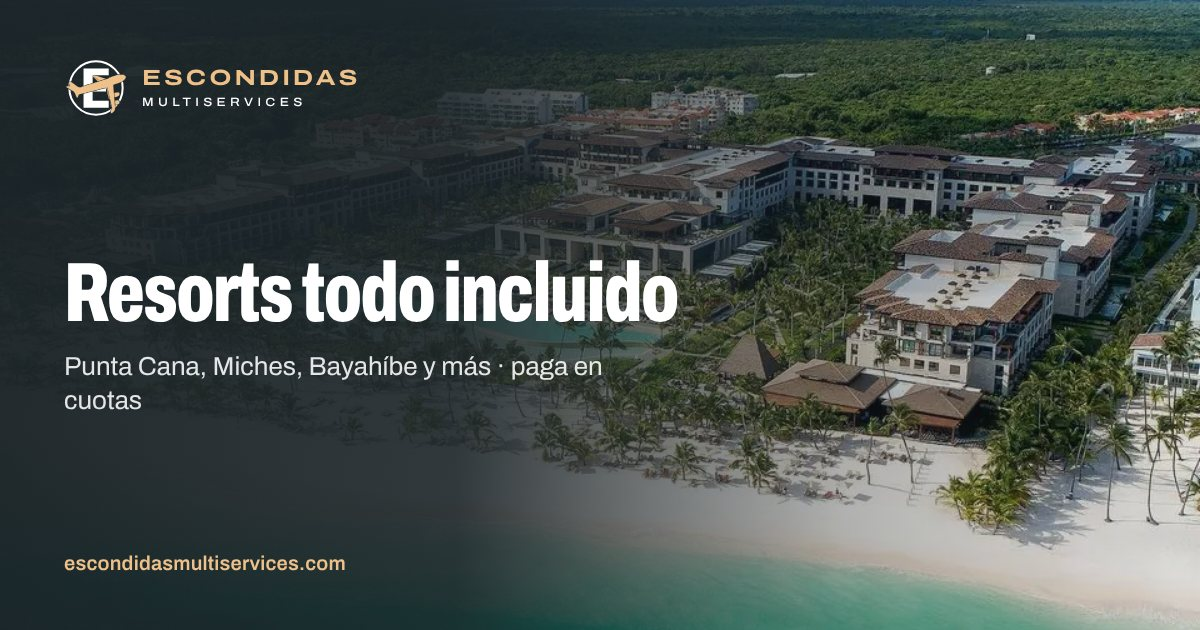
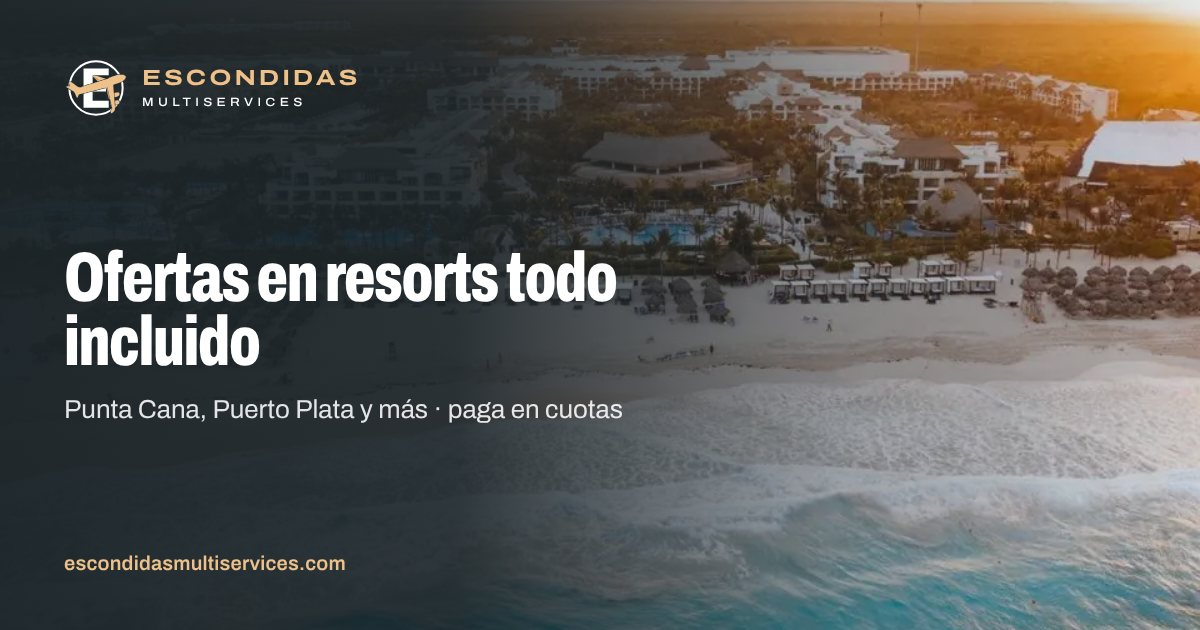
Quita hoteles sin precio y completa las fotos que faltaban
- Fuera Lopesan Costa Bávaro, Zemi Miches y Sunscape Dominicus (sin precio)
- Hard Rock pasa a hotel de oferta, con galería: foto aérea + piscina (Commons, CC BY 2.0)
- Las tarjetas de hoteles sin precio propio se ocultan solas al vencer la oferta
- Fotos nuevas: Río de Janeiro (Commons, CC0), Cofresí (recorte del flyer),
  Cueva Taína y casa típica (ilustrativas, Higgsfield)
- Inicio y metadatos de hoteles hablan de Punta Cana y Puerto Plata; OG de hoteles nueva

Claude-Session: https://claude.ai/code/session_014DoFgsnU6KxzYCSXWDs1VN

diff --git a/public/css/estilos.css b/public/css/estilos.css
@@ -796,11 +796,18 @@ html:not(.js) .filtros { display: none; }
 .galeria__principal img { width: 100%; height: 100%; object-fit: cover; }
 .galeria__principal .credito { position: absolute; right: .85rem; bottom: .6rem; margin: 0; color: rgba(255,255,255,.85); text-shadow: 0 1px 3px rgba(0,0,0,.6); }
 .galeria__pend { border-radius: 1.1rem; border: 1.5px dashed var(--linea-fuerte); background: var(--bruma); display: grid; place-items: center; color: var(--gris); aspect-ratio: 4 / 3; font-size: .9rem; text-align: center; padding: .5rem; }
+.galeria__foto { border-radius: 1.1rem; overflow: hidden; aspect-ratio: 4 / 3; background: var(--bruma); position: relative; margin: 0; }
+.galeria__foto img { width: 100%; height: 100%; object-fit: cover; }
+.galeria__foto .credito { position: absolute; right: .75rem; bottom: .5rem; margin: 0; color: rgba(255,255,255,.85); text-shadow: 0 1px 3px rgba(0,0,0,.6); }
+.galeria--dos .galeria__foto { grid-column: span 2; aspect-ratio: 16 / 10; }
 @media (min-width: 900px) {
   .galeria { grid-template-columns: repeat(4, minmax(0,1fr)); grid-template-rows: repeat(2, minmax(0, 1fr)); }
   .galeria__principal { grid-column: span 2; grid-row: span 2; aspect-ratio: auto; min-height: 26rem; }
   .galeria--sola .galeria__principal { grid-column: 1 / -1; aspect-ratio: 21 / 9; }
-  .galeria__pend { aspect-ratio: auto; }
+  .galeria__pend, .galeria__foto { aspect-ratio: auto; }
+  .galeria--dos { grid-template-columns: 3fr 2fr; grid-template-rows: auto; }
+  .galeria--dos .galeria__principal { grid-column: auto; grid-row: auto; }
+  .galeria--dos .galeria__foto { grid-column: auto; aspect-ratio: auto; border-radius: 1.5rem; }
 }
 .ficha { display: grid; gap: 3rem; align-items: start; }
 @media (min-width: 1000px) { .ficha { grid-template-columns: minmax(0, 1.35fr) minmax(0, 1fr); gap: 4rem; } .ficha__lado { position: sticky; top: 7rem; } }

diff --git a/herramientas/medios.py b/herramientas/medios.py
@@ -16,6 +16,7 @@ SALIDA = os.path.join(RAIZ, 'public', 'img', 'f')
 TMP = '/tmp/esc_medios'
 UP = '/mnt/user-data/uploads/'
 W2 = '/home/claude/esc/web2/img/'
+ENT = '/home/claude/esc/entrantes/'
 ANCHOS = [480, 800, 1200, 1600, 2000]
 
 V_BUGGY = UP + 'IMG_2723.MOV'      # 1080x1920, caravana y casco rojo
@@ -59,6 +60,12 @@ FUENTES = {
     'flyer-ballenas': (UP + 'b3581001-image.jpg', None, None, False),
     # Ofertas de resorts (flyers del mayorista, nov 2026)
     'flyer-tropical-cofresi': (UP + 'eb685f6b-image.png', None, None, False),
+    # Nov 2026: fotos que faltaban (Wikimedia Commons, IA de Higgsfield y recorte del flyer)
+    'rio-botafogo': (ENT + 'rio-botafogo.jpg', None, None, False),          # Wilfredor, CC0
+    'hardrock-piscina': (ENT + 'hardrock-piscina.jpg', None, None, False),  # Magnus Bråth, CC BY 2.0
+    'cueva-taina': (ENT + 'cueva-taina.jpg', None, None, False),            # ilustrativa, Higgsfield
+    'casa-tipica': (ENT + 'casa-tipica.jpg', None, None, False),            # ilustrativa, Higgsfield
+    'cofresi-cabanas': (UP + 'eb685f6b-image.png', None, (0.17, 0.132, 0.87, 0.52), False),
     'flyer-presidential-suites': (UP + '762c4af1-image.png', None, None, False),
     'flyer-hard-rock': (UP + '96825562-image.png', None, None, False),
     'flyer-ocean-blue-sand': (UP + '9e118303-image.png', None, None, False),

diff --git a/PENDIENTES.md b/PENDIENTES.md
@@ -24,20 +24,17 @@ En la vista previa, cada dato pendiente aparece como un **recuadro punteado**. C
 
 ## Fotos
 - [ ] Autor y licencia de las fotos de Wikimedia: Basílica de Higüey (fachada y aérea), cuadro de la Altagracia y acantilado de Playa Macao
-- [ ] Fotos reales de la Cueva Taína y de la casa típica (si las tienen)
-- [ ] Confirmar permiso de las fotos de Hard Rock y Zemi (o cambiarlas por fotos del mayorista)
-- [ ] 4 fotos por hotel: piscina, habitación, playa y restaurante
+- [ ] Fotos reales de la Cueva Taína y de la casa típica (hoy son imágenes ilustrativas hechas con IA en Higgsfield)
+- [ ] Confirmar permiso de la foto aérea de Hard Rock (o cambiarla por una del mayorista)
+- [x] Todas las secciones tienen foto (nov 2026): Río de Janeiro (Wilfredor, CC0), piscina de Hard Rock (Magnus Bråth, CC BY 2.0), Cofresí (recorte del flyer), Cueva Taína y casa típica (IA)
 
 ## Ofertas de resorts (flyers, nov 2026, ya en la web)
 - [x] Ocean Blue & Sand y Ocean El Faro (Black Friday, reservar hasta el 30 nov), Hard Rock (27 al 29 nov), The Tropical Beach & Cofresí Palm y Presidential Suites (hasta el 23 dic)
 - Cada oferta se oculta sola en la web al día siguiente de su fecha (`vence` en contenido/datos.mjs). Para una oferta nueva: agregar el flyer en herramientas/medios.py y el hotel con su `oferta` en datos.mjs
 
-## Hoteles (Lopesan, Hard Rock, Zemi Miches, Sunscape Dominicus)
-- [ ] Precio "desde" por persona por noche (también desde la hoja de Google)
-- [ ] Descripción corta de cada resort
-- [ ] Qué incluye el plan (restaurantes, actividades, club de niños, wifi, impuestos)
-- [ ] Tipos de habitación, capacidad y precio
-- [ ] Más hoteles por zona (Samaná, Puerto Plata…)
+## Hoteles
+- [x] Quitados Lopesan Costa Bávaro, Zemi Miches y Sunscape Dominicus (no tenían precio). Ahora solo se publican hoteles con oferta y precio
+- Un hotel sin precio propio se oculta solo cuando vence su oferta. Para publicar uno fijo hace falta: precio desde, descripción, qué incluye, habitaciones y fotos (plantilla `hotelBase` en datos.mjs)
 
 ## Crucero de Año Nuevo (Costa Pacifica)
 - [ ] Fecha, cantidad de noches y puerto de salida
